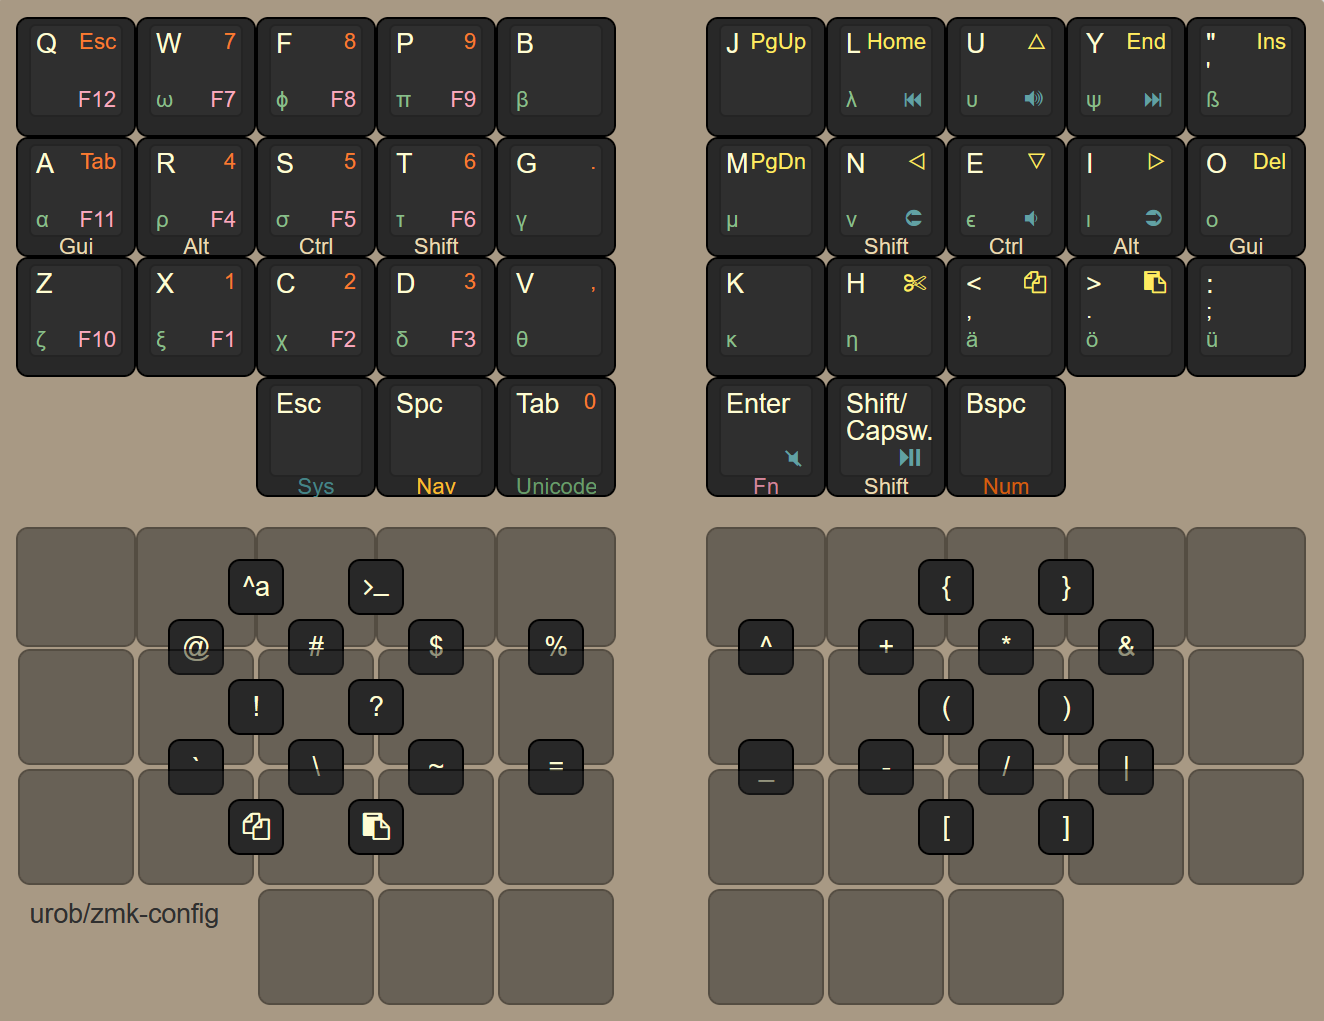
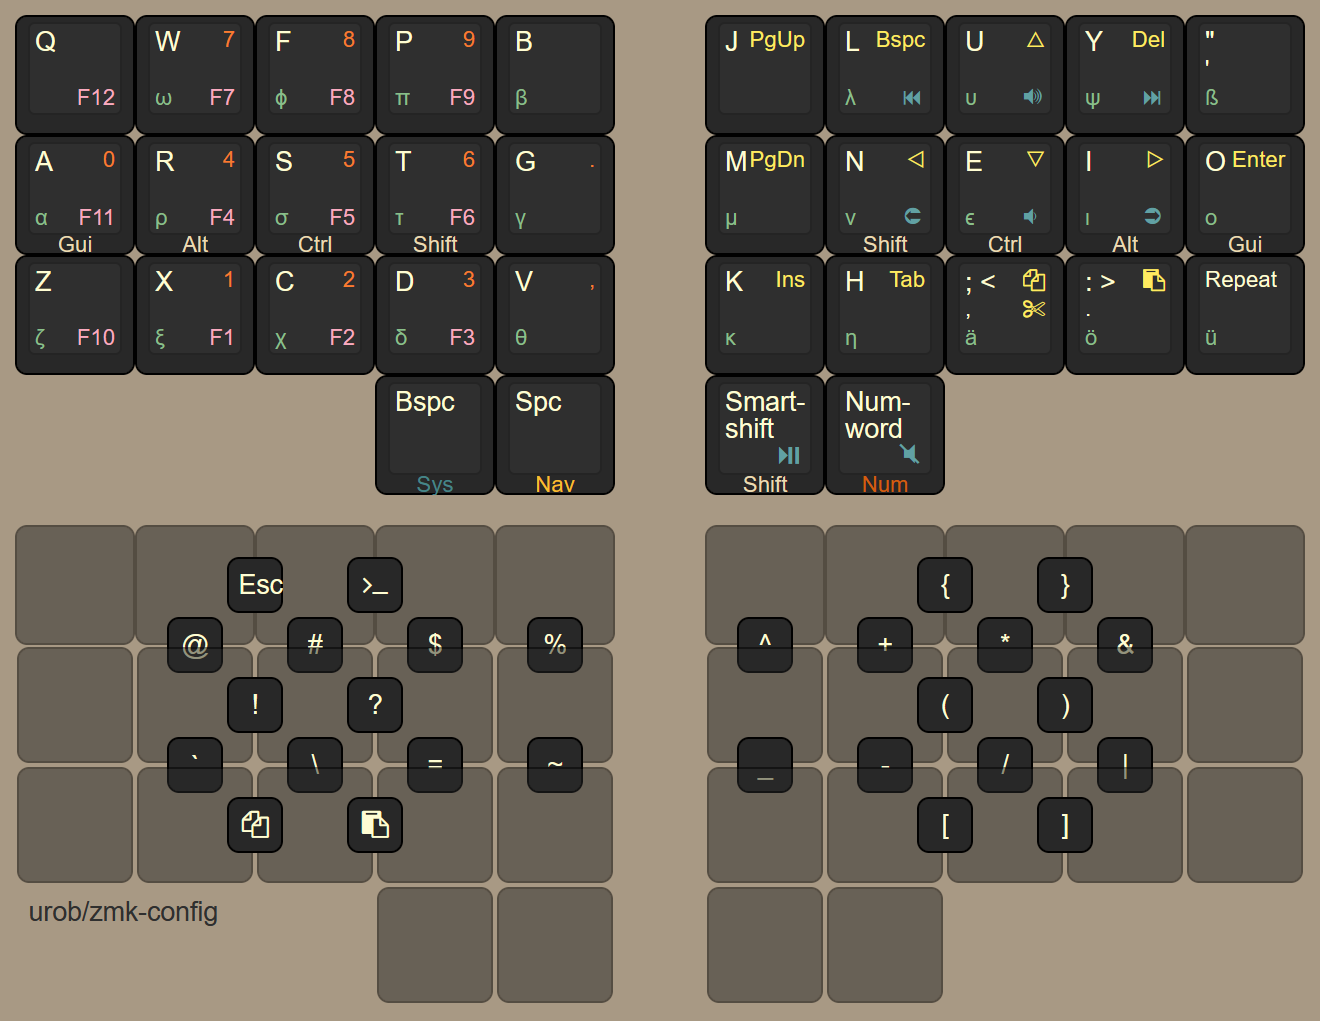
Huge refactoring

diff --git a/config/xtr_defaults.h b/config/xtr_defaults.h
@@ -1,0 +1,22 @@
+// The default layout has 34 keys. Additional keys can be added by pre-setting any of
+// the macros defined in this file to one or more keys before sourcing this file.
+
+#if !defined XTR_MT  // top row, middle
+    #define XTR_MT
+#endif
+#if !defined XTR_MM  // middle row, middle
+    #define XTR_MM
+#endif
+#if !defined XTR_MB  // bottom row, middle
+    #define XTR_MB
+#endif
+#if !defined XTR_MH  // thumb row, middle
+    #define XTR_MH
+#endif
+#if !defined XTR_LH  // thumb row, left
+    #define XTR_LH
+#endif
+#if !defined XTR_RH  // thumb row, right
+    #define XTR_RH
+#endif
+

diff --git a/zmk-nodefree-config/helper.h b/zmk-nodefree-config/helper.h
@@ -136,7 +136,6 @@
                 #binding-cells = <0>; \
                 bindings = <uc_binding>, <shifted_uc_binding>; \
                 mods = <(MOD_LSFT|MOD_RSFT)>; \
-                masked-mods = <(MOD_LSFT|MOD_RSFT)>; \
             }; \
         }; \
     };

diff --git a/readme.md b/readme.md
@@ -1,22 +1,26 @@
 # urob's zmk-config
 
 This is my personal [ZMK firmware](https://github.com/zmkfirmware/zmk/) configuration. 
-It is ported from my QMK configuration, which in turn is heavily inspired by Manna Harbour's
-[Miryoku layout](https://github.com/manna-harbour/miryoku).
 
 ## Key features
 
 - clean keymap + unicode setup using helper macros from
   [zmk-nodefree-config](https://github.com/urob/zmk-nodefree-config)
-- keymap and combo setup portable across different physical layouts
-- ["timeless" homerow mods](#timeless-homerow-mods) on the base layer;
-  sticky mods on other layers
+- keymap and combo setup are independent of the physical location of keys and are
+  (re)used for multiple keyboards with a varying number of keys
+- ["timeless" homerow mods](#timeless-homerow-mods) on the base layer; sticky mods on
+  other layers
 - num-word: a zmk version of smart-layers that automatically de-activate for non-numbers
 - combos replacing the symbol layer
+- arrow-cluster doubles as home/end/beginning of document/end of document on long-press,
+  backspace/delete delete words on long-press
 - sticky shift on right thumb, double-tap (or shift + tap)[^1] activates caps-word
+- shift + comma morph into semicolon, shift + control + comma morph into less-than,
+  shift + dot morph into colon, shift + control + dot morph into greater-than
 - shift + space morphs into dot + space + sticky-shift
-- shift + backspace morphs into delete
-- "Greek" layer for mathematical typesetting
+- conditional layer: "sys" + "num" layer yield "fun" layer
+- "repeat" on right bottom pinky
+- "Greek" layer for mathematical typesetting (activated via sticky-layer combo)
 
 ![](img/keymap.png)
 
@@ -88,8 +92,8 @@ are not necessary):
 ZMK_BEHAVIOR(hml, hold_tap,
     flavor = "balanced";
     tapping-term-ms = <280>;
-    quick-tap-ms = <175>;                // double tapping same key allows for repeating
-    global-quick-tap-ms = <150>;         // without PR #1387 use global-quick-tap instead
+    quick-tap-ms = <175>;                // repeat on tap-into-hold
+    global-quick-tap-ms = <150>;         // requires PR #1387
     bindings = <&kp>, <&kp>;
     hold-trigger-key-positions = <KEYS_R THUMBS>;
     hold-trigger-on-release;             // requires PR #1423
@@ -99,8 +103,8 @@ ZMK_BEHAVIOR(hml, hold_tap,
 ZMK_BEHAVIOR(hmr, hold_tap,
     flavor = "balanced";
     tapping-term-ms = <280>;
-    quick-tap-ms = <175>;                // double tapping same key allows for repeating
-    global-quick-tap-ms = <150>;         // without PR #1387 use global-quick-tap instead
+    quick-tap-ms = <175>;                // repeat on tap-into-hold
+    global-quick-tap-ms = <150>;         // requires PR #1387
     bindings = <&kp>, <&kp>;
     hold-trigger-key-positions = <KEYS_L THUMBS>;
     hold-trigger-on-release;             // requires PR #1423
@@ -120,21 +124,65 @@ custom selection of PRs, you might find my ["cookbook
 approach"](https://gist.github.com/urob/68a1e206b2356a01b876ed02d3f542c7) helpful.
 
 
-## A few thoughts on the combo setup
+## Combo setup
 
-The combo layout is guided by two goals: (1) put all combos in easy-to-access locations,
-and (2) make them easy to remember. Specifically:
+I make heavy use of combos to replace the usual symbol layer. The combo layout aims to
+put the most used symbols in easy-to-access locations and also make them easy to
+remember. Specifically:
 
-- the top vertical-combo row matches the symbols on a standard numbers row
-  (except `+` and `&` being swapped)
-- the bottom vertical-combo row aims for symmetry with the top row
-  (subscript `_` aligns with superscript `^`; minus `-` aligns with `+`; division `/`
-  aligns with multiplication `*`; logical-or `|` aligns with logical-and `&`)
-- parenthesis, braces, brackets, `!` and `?` all in prime access locations and set up
-  symmetrically
-- a numlock shortcut (on `W + P`) for one-handed "data entry" (aka Sudoku 🙂)
-- shortcuts for cut (on `X + D`), copy, and paste on left side (good with right-handed
-  mouse use)
+- the top vertical-combo row matches the symbols on a standard numbers row (except `+`
+  and `&` being swapped)
+- the bottom vertical-combo row aims for symmetry with the top row (subscript `_` aligns
+  with superscript `^`; minus `-` aligns with `+`; division `/` aligns with
+  multiplication `*`; logical-or `|` aligns with logical-and `&`)
+- parenthesis, braces, brackets, `!` and `?` are set up symmetrically in prime locations
+- numlock (on `W + P`), cut (on `X + D`), copy, and paste are on the left side for
+  one-handed mouse use
+- `L + Y` activates Greek layer for next key, `L + U + Y` activates shifted Greek layer
+  for next key
+
+## Experimental changes
+
+- I recently reduced my core layout to 34 keys. Backspace, Delete and Tap are now all on
+my Navigation-layer. To make room for these keys, I have added hold-taps to the arrow
+cluster, which now double as Home/End and Beginning/End of document. I really like the
+new navigation cluster and will likely keep it in one way or another
+- Inspired by Jonas Hietala's
+  [Numword](https://www.jonashietala.se/blog/2021/06/03/the-t-34-keyboard-layout/#where-are-the-digits)
+  for QMK, I implemented my own version of [Smart-layers for
+    ZMK](https://github.com/zmkfirmware/zmk/pull/1451). It is triggered via a single tap
+    on my Num-key (holding the key will activate the num layer as usual without
+    triggering Numword). Similar to Capsword, Numword continues to be activated as long
+    as I type numbers, and deactivates automatically on any other keypress. I found that
+    I use Numword for most of my numbers typing. For single digits, it effectively is a
+    sticky-layer, but importantly I can also use it for multiple digits. The only case
+    where it doesn't deactivate automatically is where immediately after a digit I would
+    type any of the letters on which my numpad is located (WFPRSTXCD), which is rare,
+    but does happen. For these cases I have a CANCEL key on my Nav layer that cancels
+    both Numword and Capsword.
+- Since the switch to 34 keys, I freed up the tap-position on my left-most thumb key.
+  For now I added a secondary Bspc, but I am still searching for a better use. (I tried
+  adding Repeat here but I found that it doesn't work well adjacent to space)
+
+## Issues and workarounds
+
+Since I switched from QMK to ZMK I have been very impressed with how easy it is to set
+up relatively complex layouts in ZMK. For the most parts I don't miss any functionality
+(to the contrary, I found that ZMK supports many features natively that would complex
+user-space implementations in QMK). Below are a few remaining issues:
+
+- ZMK does not yet support tap-only combos
+  ([#544](https://github.com/zmkfirmware/zmk/issues/544)). Workaround: pause
+  briefly when chording multiple HRMs together on positions that otherwise would trigger
+  a combo.
+- `&bootloader` doesn't work with Planck_rev6
+  ([#1086](https://github.com/zmkfirmware/zmk/issues/1086)). Workaround: Manually press
+  reset-button.
+- "sticky-hold" swallows OS shift when typing quickly. Workaround: use sticky-tap for now.
+- Sleep is not yet implemented ([#1077](https://github.com/zmkfirmware/zmk/issues/1077)).
+  Workaround: use sleep-macro instead.
+- Invalid DFU suffix signature warning when flashing with dfu-util. No problem for now
+  but may cause issues with future versions of dfu-util.
 
 [^1]: Really what's happening is that `Shift` + my right home-thumb morph into
   caps-word. This gives me two separate ways of activating it: (1) Holding the
